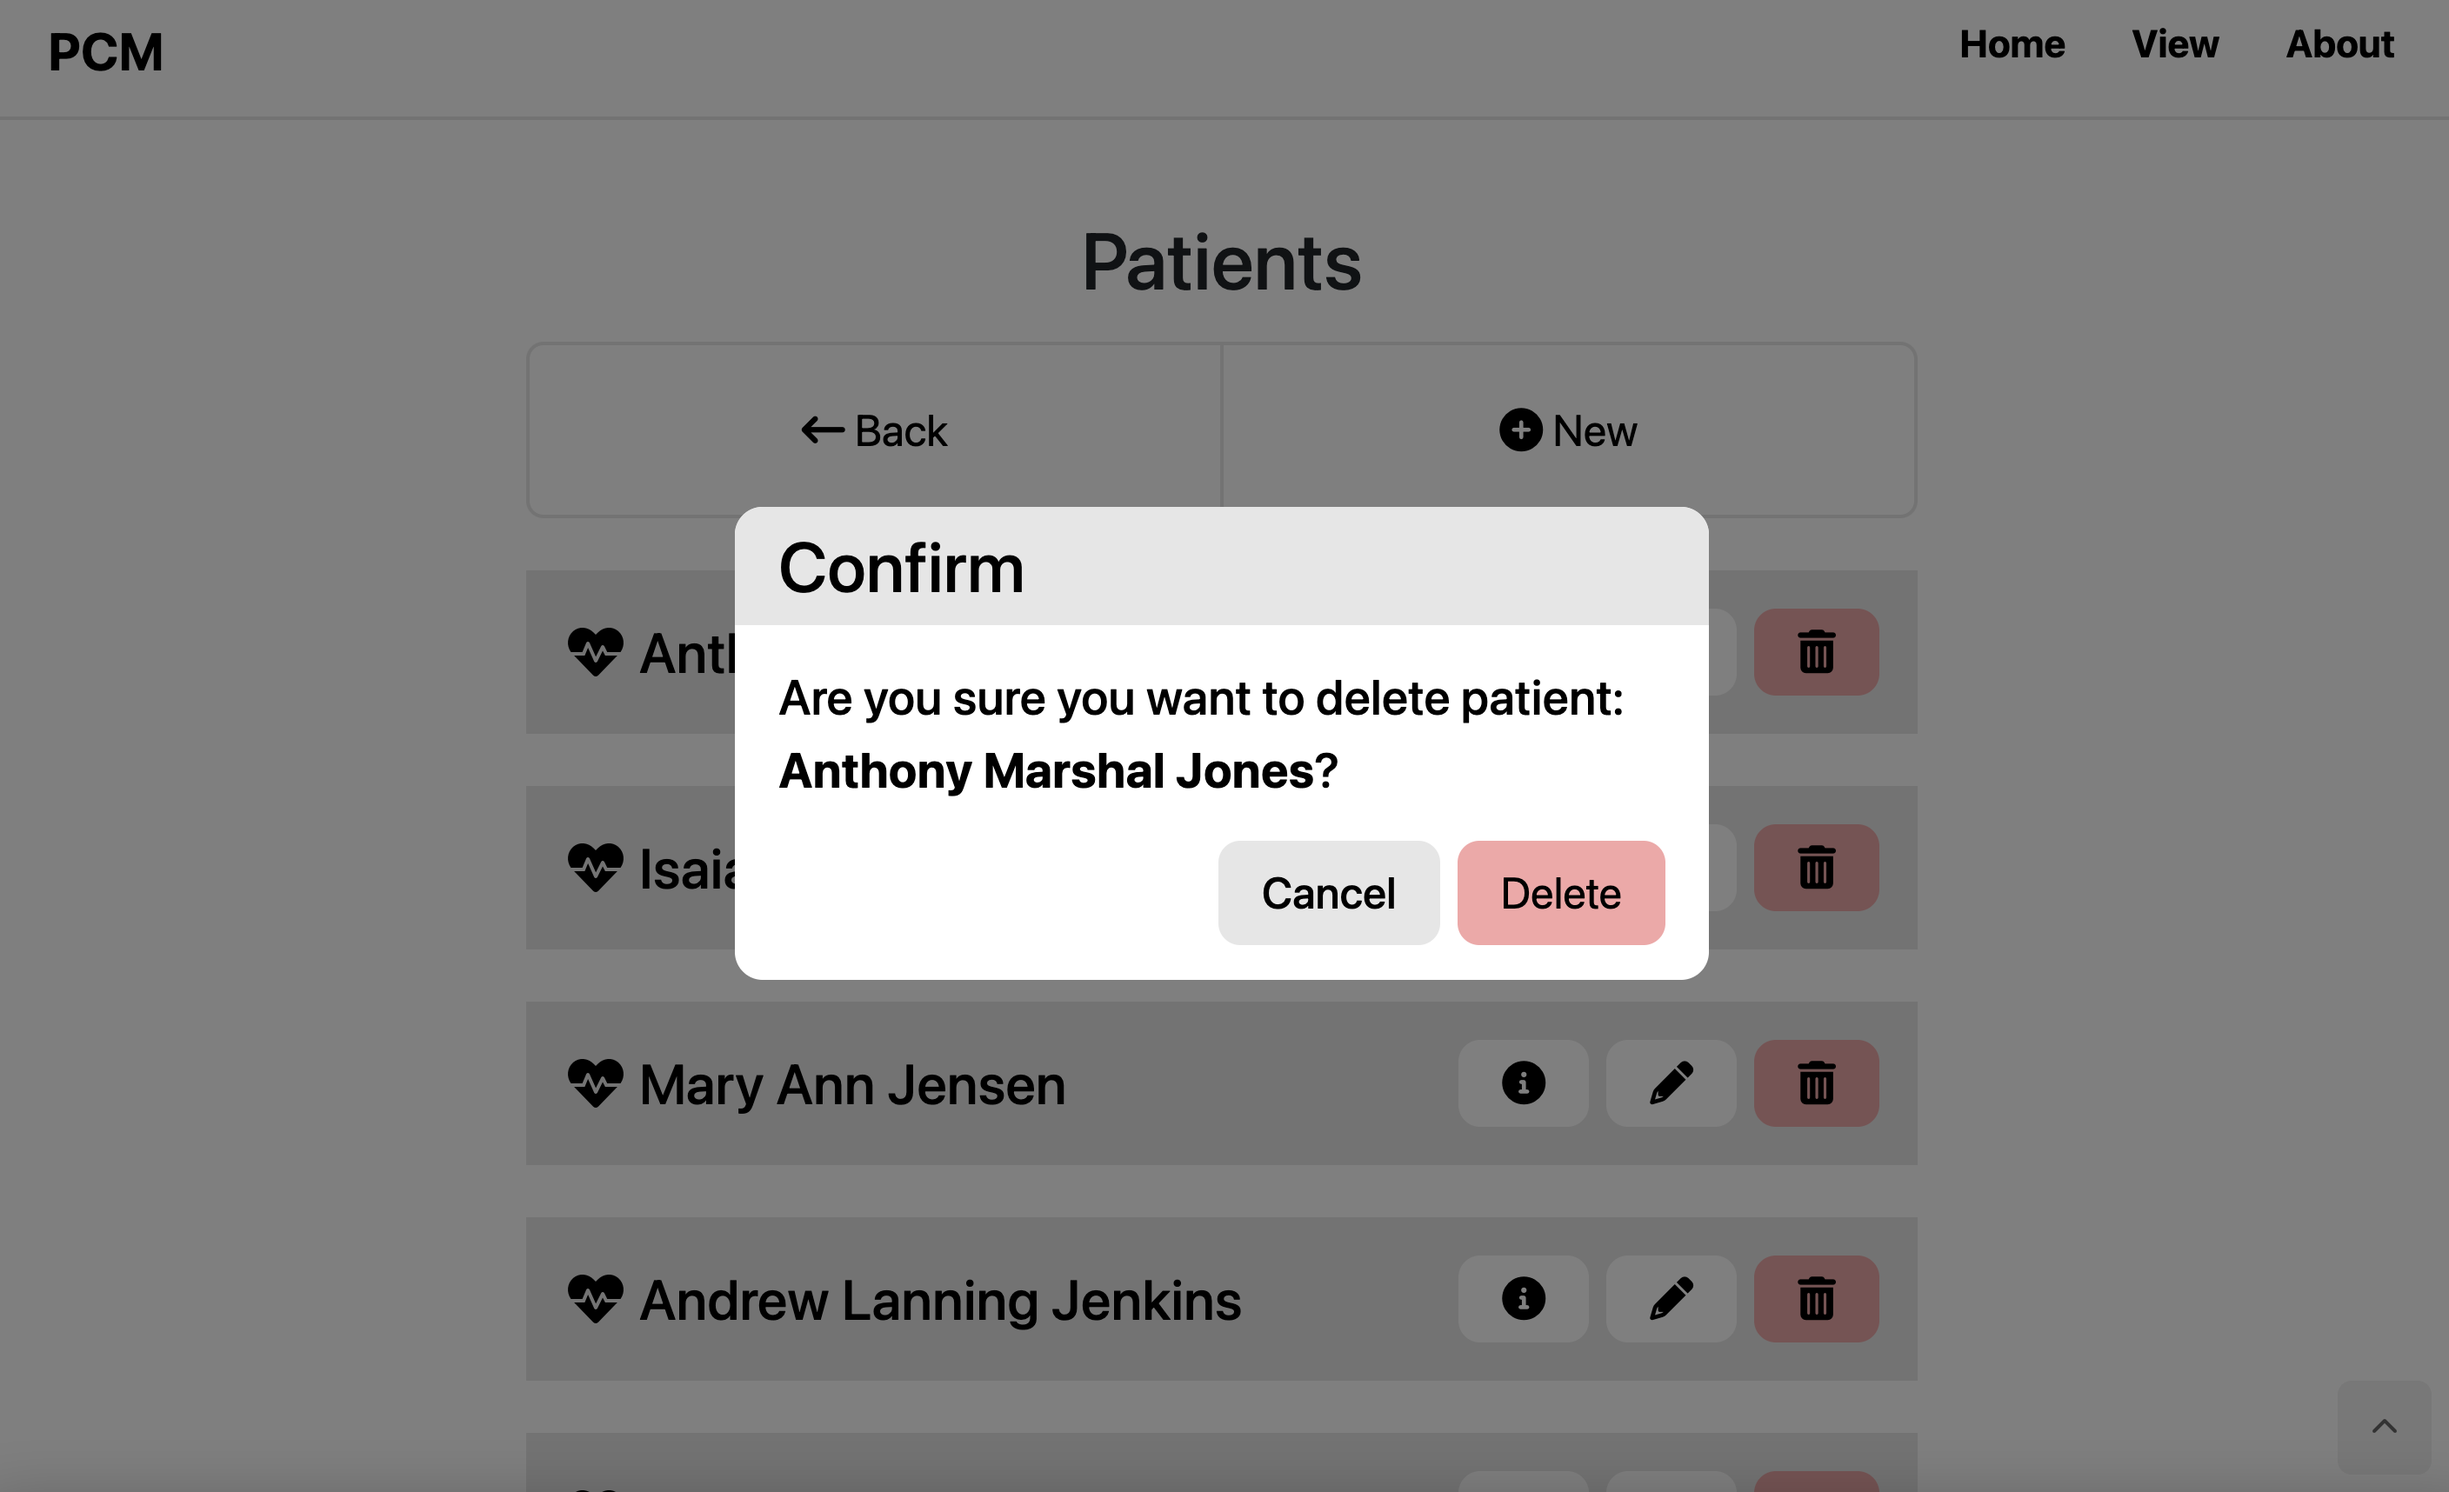
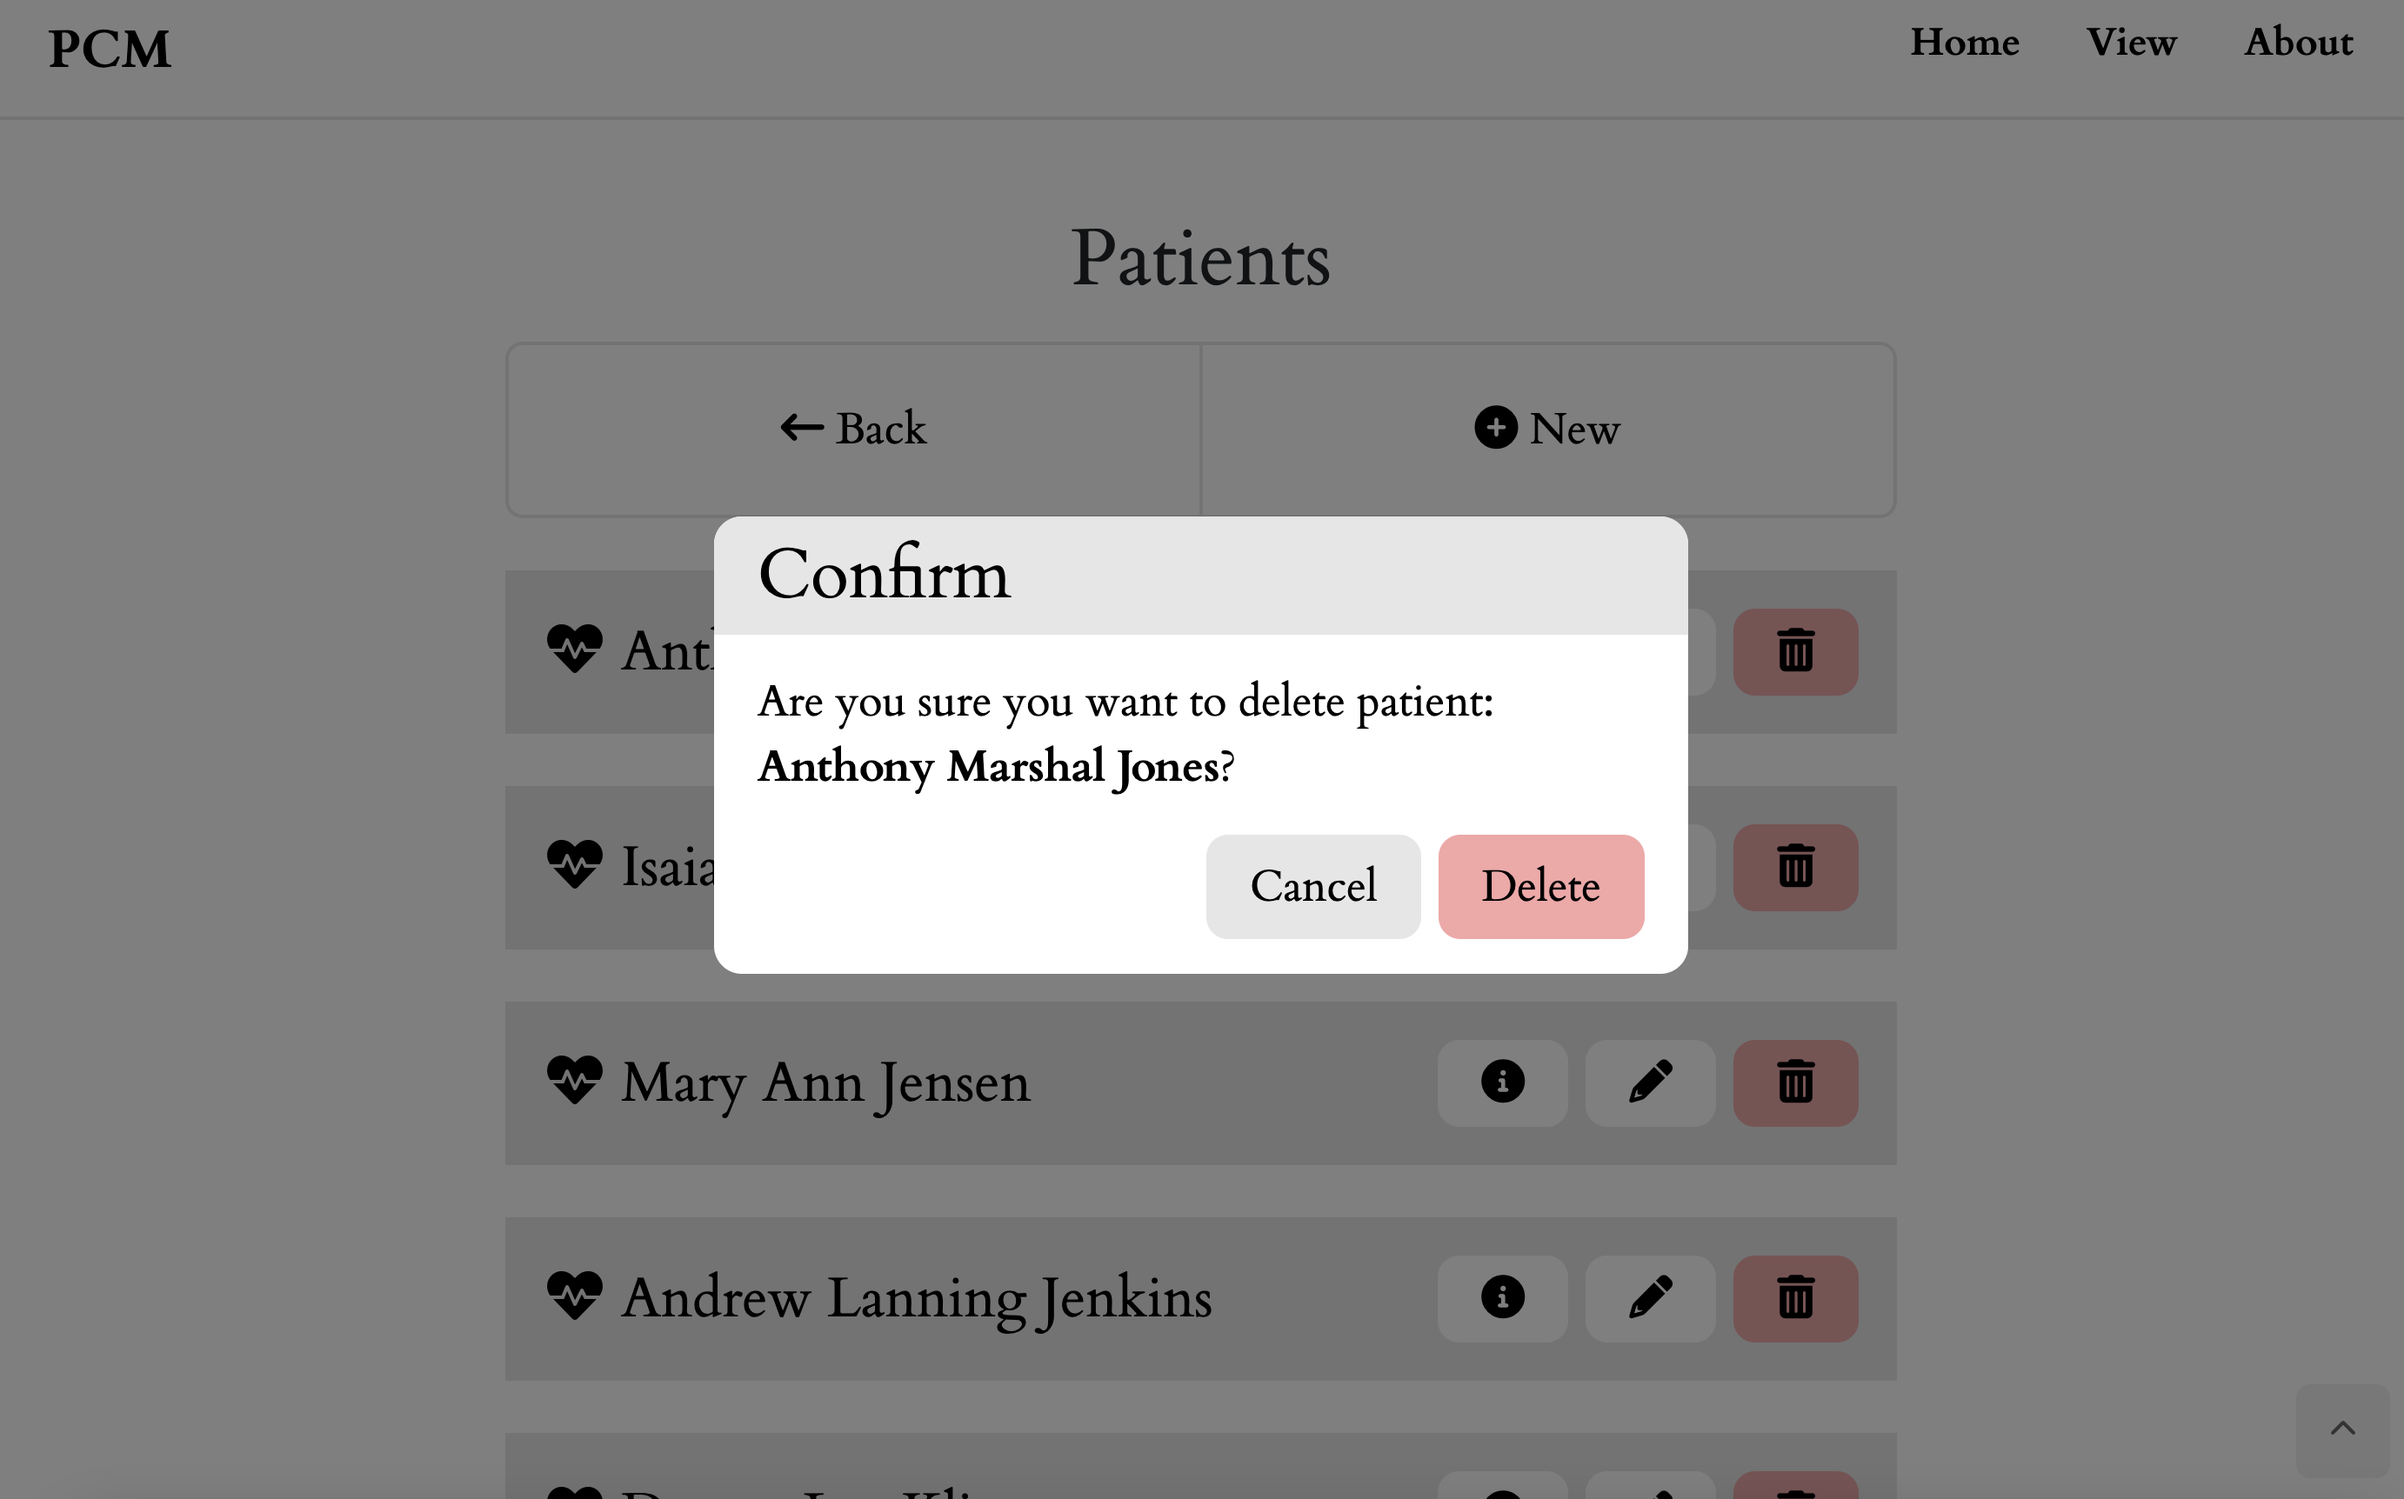
Updated images for patient care manager modal.

diff --git a/css/mobile.css b/css/mobile.css
@@ -88,10 +88,30 @@ h1 {
     font-size: 50px !important;
 }
 
+/* Set the font style for h1 tags on smaller screen */
+/* sizes such as Samsung Galaxy screens. */
+@media (max-width: 400px) {
+
+    h1 {
+        font-family: 'Lora', serif;
+        font-size: 45px !important;
+    }
+}
+
 /* Set the font style for h2 tags. */
 h2 {
     font-family: 'Lora', serif;
     font-size: 50px !important;
+}
+
+/* Set the font style for h2 tags on smaller screen */
+/* sizes such as Samsung Galaxy screens. */
+@media (max-width: 400px) {
+
+    h2 {
+        font-family: 'Lora', serif;
+        font-size: 45px !important;
+    }
 }
 
 /* Set the font style for h3 tags. */
@@ -1063,12 +1083,27 @@ html {
 
     .projects-card {
         position: relative;
-        max-width: 400px;
+        min-width: 365px;
+        max-width: 365px;
         /* background-color: var(--bluer-color); */
         background-color: var(--whiter-color);
         border-radius: 0.5em;
         height: 400px;
         transition: all .2s ease-in-out;
+    }
+
+    @media (max-width: 400px) {
+
+        .projects-card {
+            position: relative;
+            min-width: 310px;
+            max-width: 310px;
+            /* background-color: var(--bluer-color); */
+            background-color: var(--whiter-color);
+            border-radius: 0.5em;
+            height: 400px;
+            transition: all .2s ease-in-out;
+        }
     }
 
     .portfolio-item {

diff --git a/css/larger.css b/css/larger.css
@@ -967,6 +967,7 @@
     
     .projects-card {
         position: relative;
+        min-width: 400px;
         max-width: 400px;
         /* background-color: var(--bluer-color); */
         background-color: var(--whiter-color);

diff --git a/css/maximum.css b/css/maximum.css
@@ -692,6 +692,7 @@
     
     .projects-card {
         position: relative;
+        min-width: 400px;
         max-width: 400px;
         /* background-color: var(--bluer-color); */
         background-color: var(--whiter-color);

diff --git a/css/desktop.css b/css/desktop.css
@@ -918,6 +918,7 @@
 
     .projects-card {
         position: relative;
+        min-width: 400px;
         max-width: 400px;
         flex: 50%;
         /* background-color: var(--bluer-color); */
